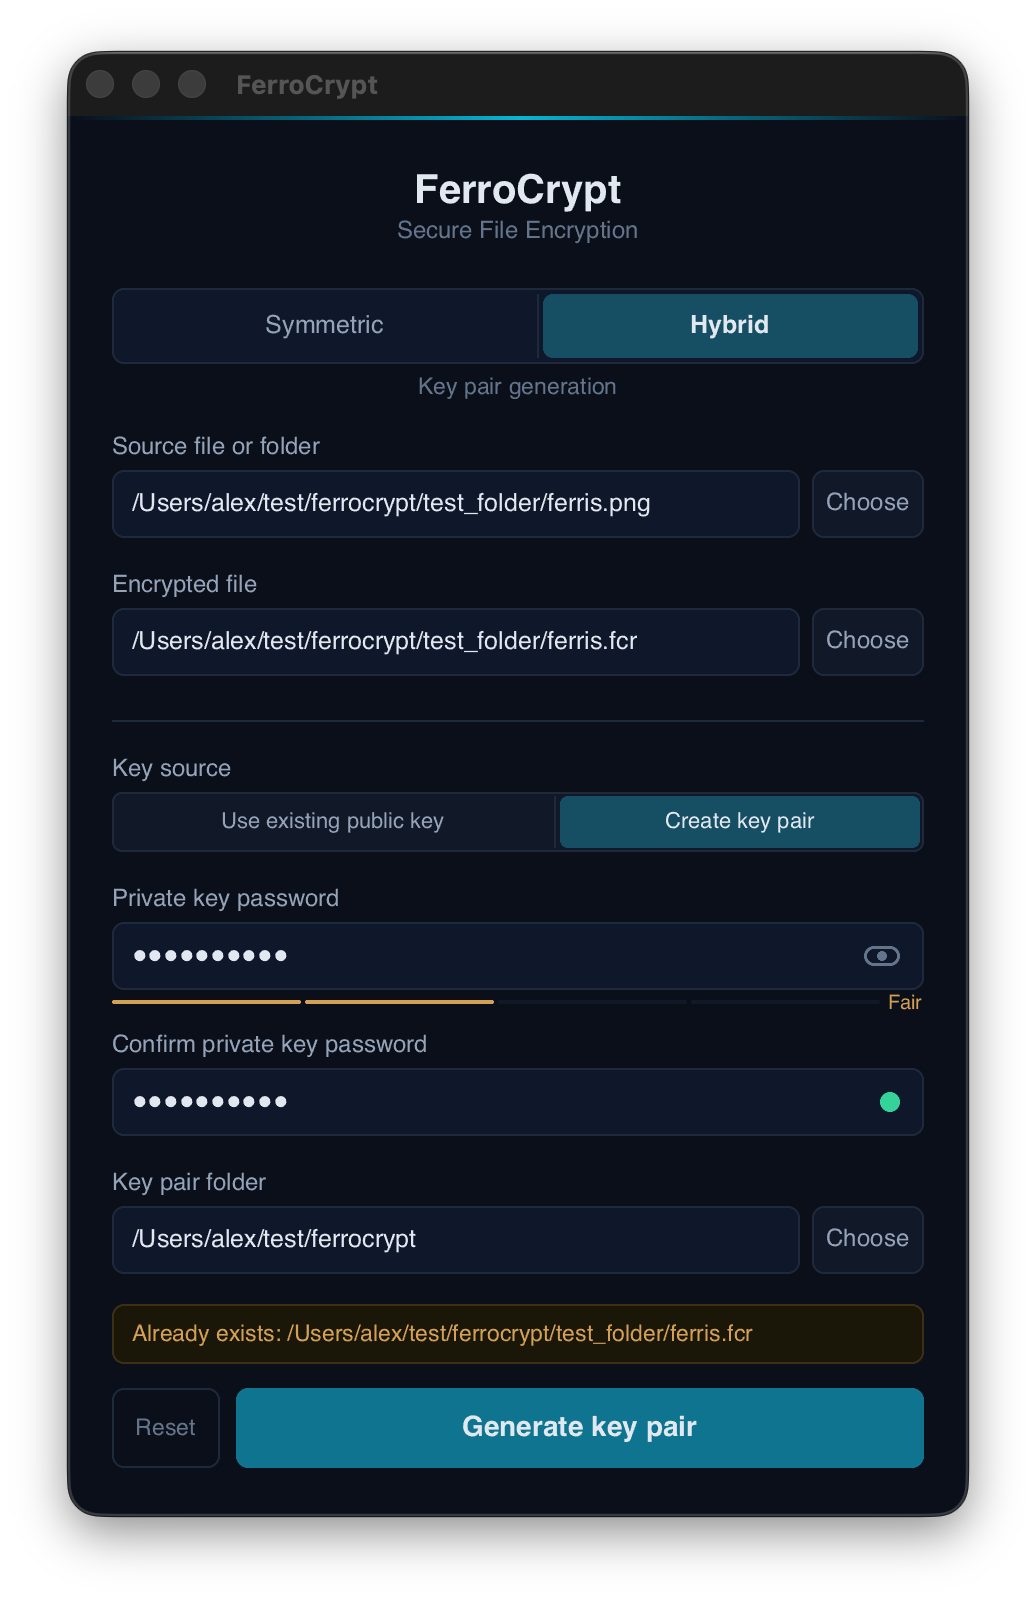
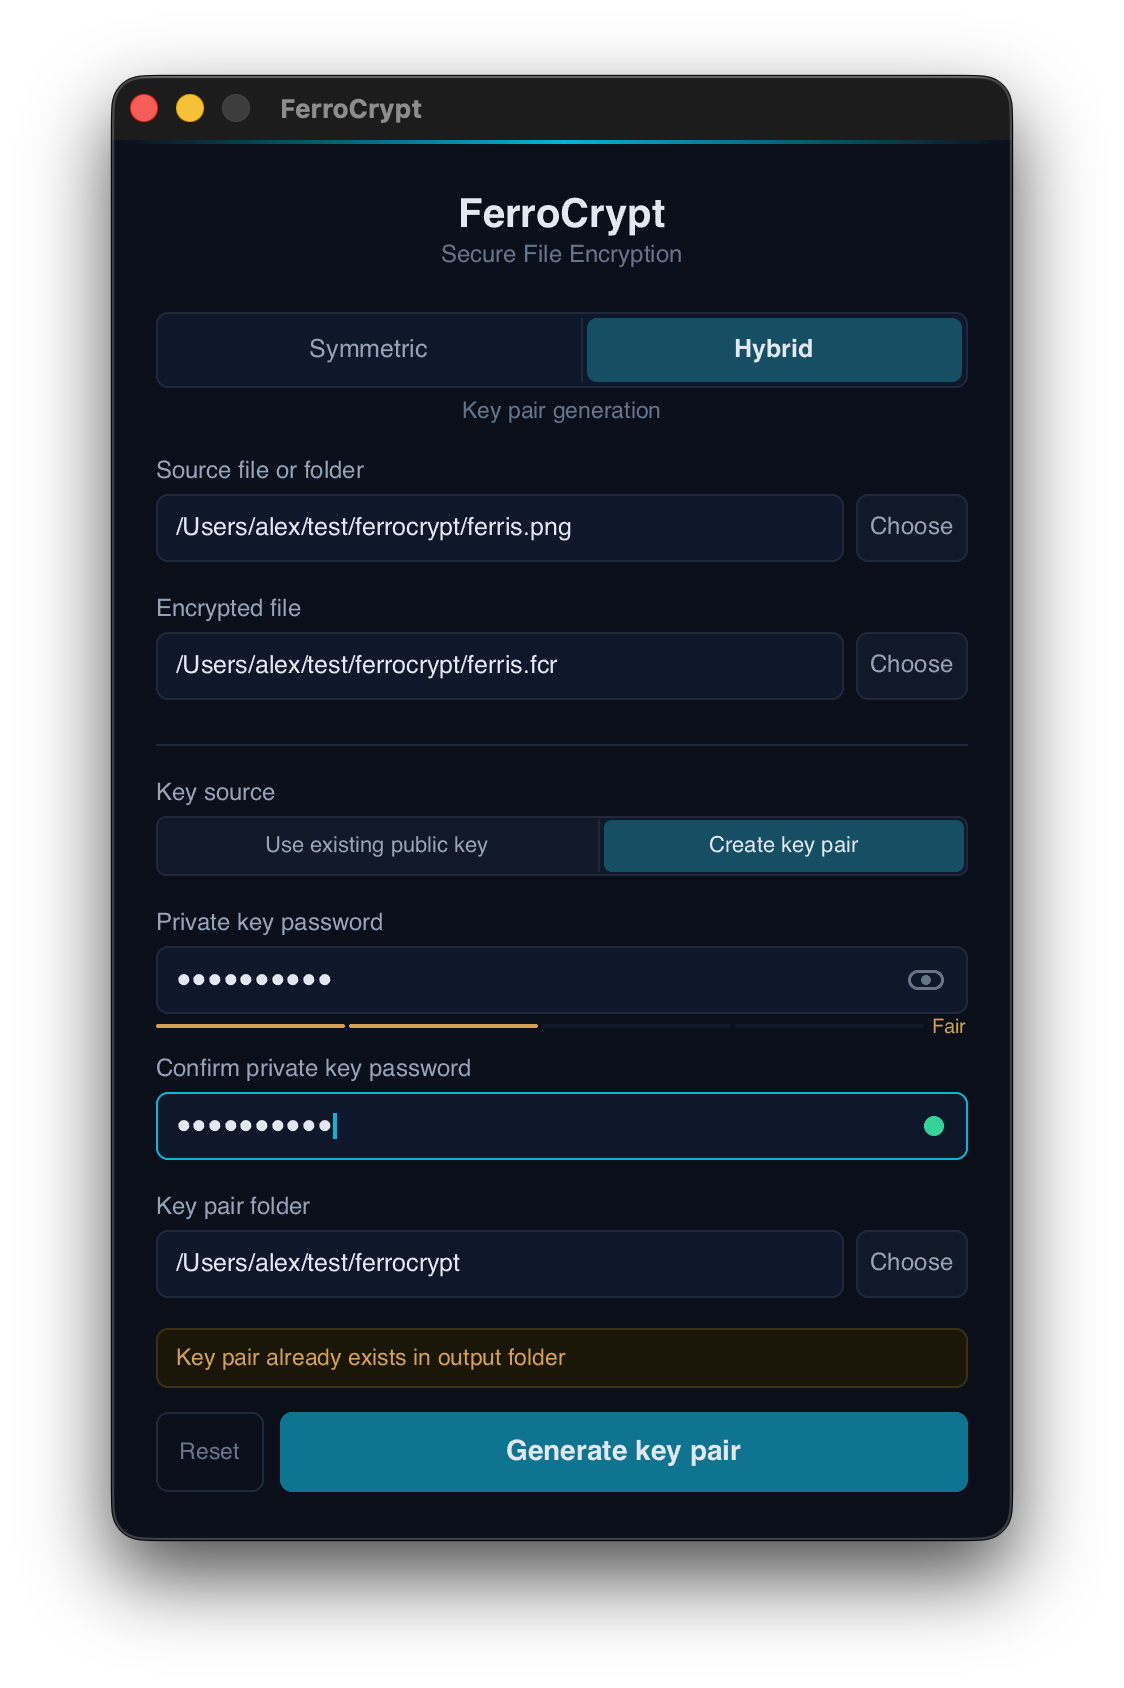
Fix keygen mode showing irrelevant outpath conflict warning

Changed region(s): [[0.0309, 0.0312, 0.9575, 0.9688], [0.2471, 0.1875, 0.3707, 0.2188]]

diff --git a/ferrocrypt-lib/src/format.rs b/ferrocrypt-lib/src/format.rs
@@ -209,7 +209,7 @@ pub const KEY_FILE_TYPE_SECRET: u8 = 0x53; // 'S'
 pub const PUBLIC_KEY_DATA_SIZE: usize = 32;
 // kdf_params(12) + salt(32) + nonce(24) + encrypted_key(32) + tag(16)
 pub const SECRET_KEY_DATA_SIZE: usize = 116;
-pub const KEY_FILE_VERSION: u8 = 1;
+pub const KEY_FILE_VERSION: u8 = 2;
 pub const KEY_FILE_ALG_X25519: u8 = 1;
 
 pub fn build_key_file_header(key_type: u8, data_len: u16) -> [u8; KEY_FILE_HEADER_SIZE] {
@@ -258,10 +258,17 @@ pub fn validate_key_file_header(
             "Expected a {expected} key file but got a {actual} key file"
         )));
     }
-    if data[2] != KEY_FILE_VERSION {
+    let key_version = data[2];
+    if key_version > KEY_FILE_VERSION {
         return Err(CryptoError::CryptoOperation(format!(
-            "Key file version {} not supported (expected {})",
-            data[2], KEY_FILE_VERSION
+            "Key file version {} not supported (current: {}). Upgrade FerroCrypt.",
+            key_version, KEY_FILE_VERSION
+        )));
+    }
+    if key_version < KEY_FILE_VERSION {
+        return Err(CryptoError::CryptoOperation(format!(
+            "Key file version {} no longer supported (current: {})",
+            key_version, KEY_FILE_VERSION
         )));
     }
     if data[3] != KEY_FILE_ALG_X25519 {

diff --git a/ferrocrypt-desktop/src/main.rs b/ferrocrypt-desktop/src/main.rs
@@ -346,7 +346,7 @@ fn check_conflicts(app: &AppWindow) {
 
     let mut warning = String::new();
 
-    if matches!(mode, 0 | 2 | 4) && !outpath.is_empty() && Path::new(&outpath).exists() {
+    if matches!(mode, 0 | 2) && !outpath.is_empty() && Path::new(&outpath).exists() {
         warning = format!("Already exists: {}", elide_left(&outpath, ELIDE));
     }
 
